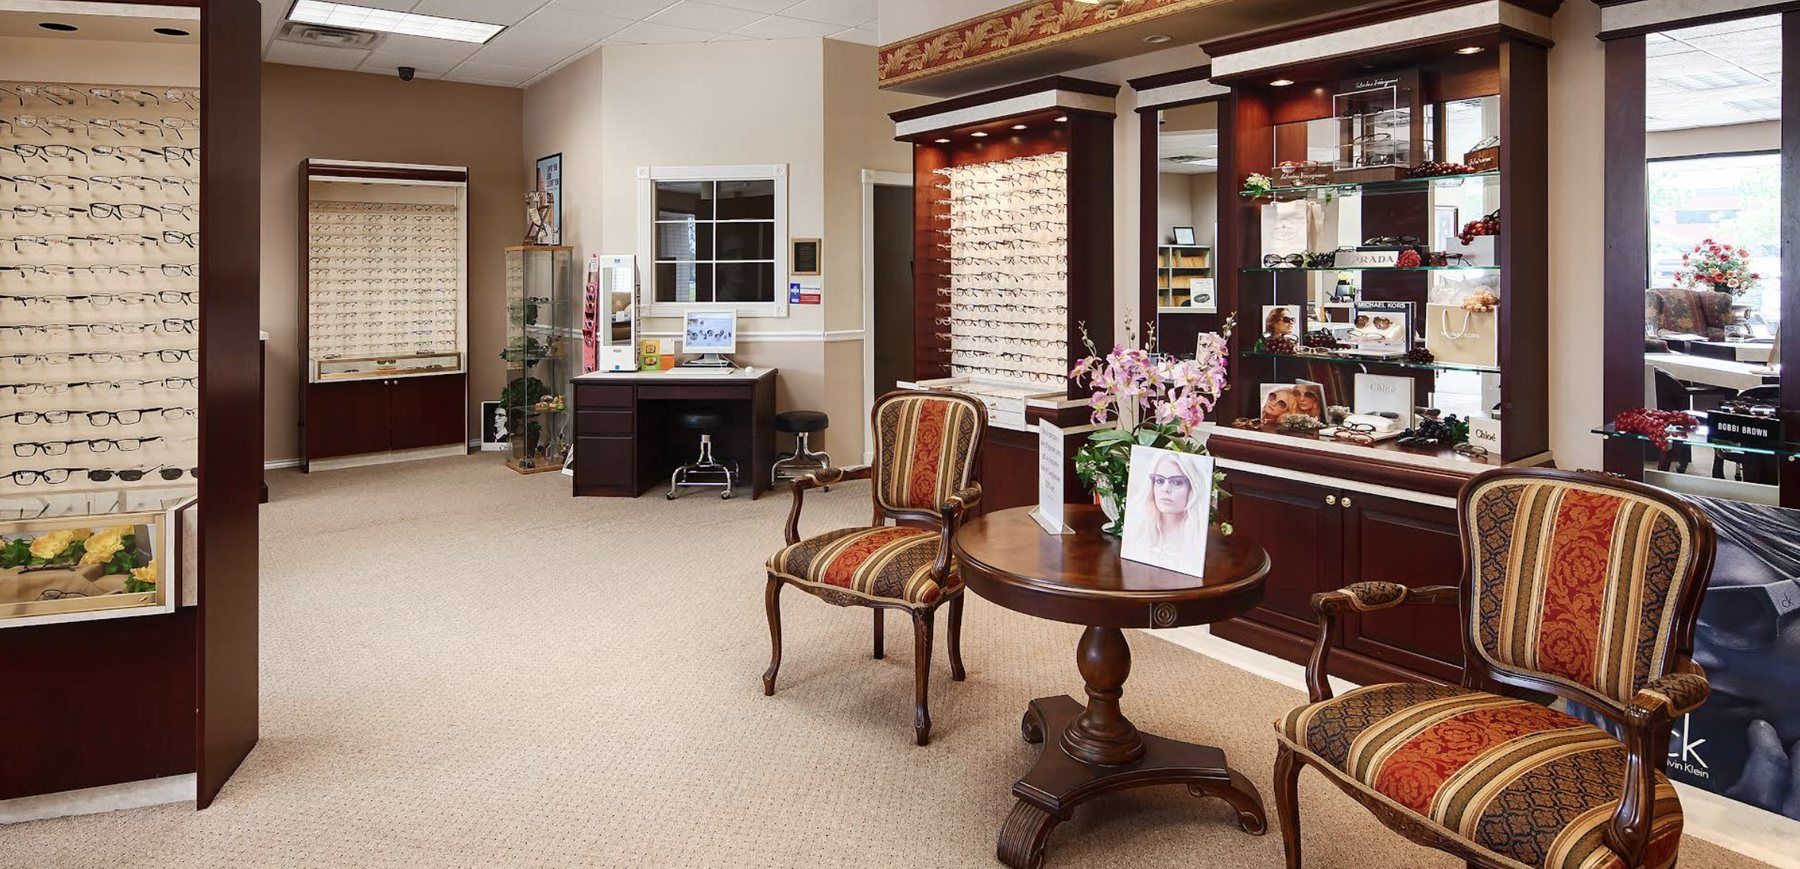
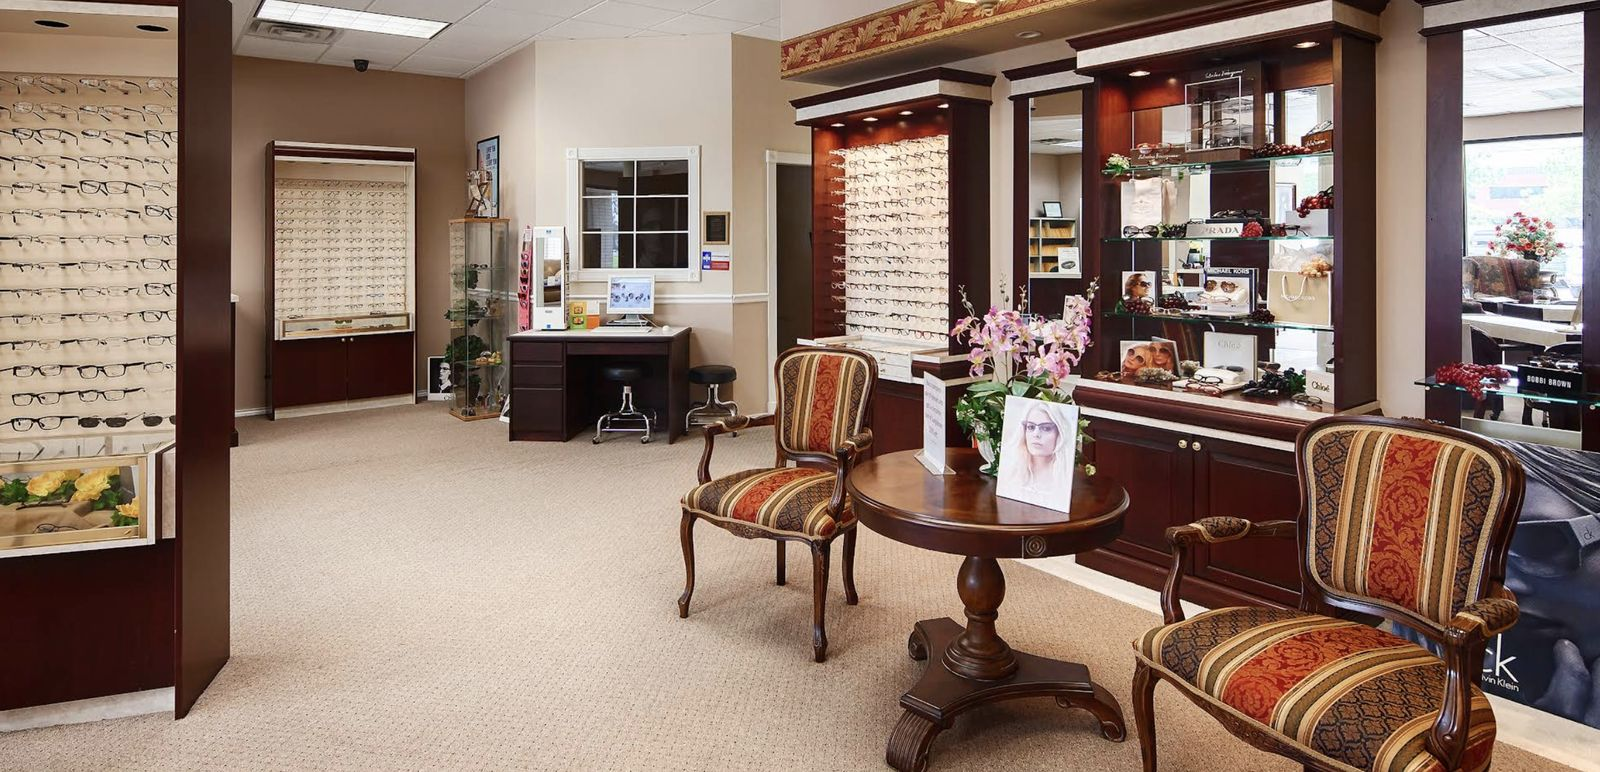
Replace the 300px optical-1.jpg with the full-resolution showroom photo
optical-1.jpg was 300x187 but displayed at 511px on most of the 21 pages that used
it -- a 1.7x upscale, 3.4x on a retina screen, and visibly soft. The showroom photo
supplied for the insurance hero is the same subject at proper resolution, so all 21
references now point at it.

Checked the crop before trusting it, because these containers are not one shape.
The photo is 2.07:1 and the containers run from 1.87 down to 0.86, so cover-cropping
discards a different amount on each:

  .dc-frame        1.33   keeps 64% of the width   15 pages
  .ha-hero__stage  1.87   keeps 90%                 1 page
  .et-frame__media 1.33   keeps 64%                 1 page
  .ha-media        0.95   keeps 46%                 2 pages
  .et-cat__scene   0.86   keeps 41%                 1 page

Rendered and inspected the three tightest. All still read as an optical showroom --
frame walls, dispensing desk, chairs -- so no per-container object-position was
needed. This was worth checking: the same 2.07:1-into-portrait crop is what made
optical-dispensary.jpg read as a bathroom vanity on the eye-health tile earlier.

Re-encoded the shared asset to 1600px q80, 354KB -> 255KB. 1600 covers the largest
display (the 1440px contact-lens-exams hero) at 1.11x, and every other use now
downscales instead of upscaling. Page weight does still rise from 13KB, which is the
unavoidable cost of a photo that is actually sharp.

Verified: 40 pages x 4 breakpoints = 160 renders. No horizontal scroll, no broken
[…]

diff --git a/glaucoma-management.html b/glaucoma-management.html
@@ -371,7 +371,7 @@
         <div class="et-reveal" style="--et-i:1">
           <figure class="dc-frame">
             <span class="dc-frame__edge" aria-hidden="true"></span>
-            <img class="dc-frame__img" src="assets/real/optical-1.jpg" alt="The Eye Trends practice in Clear Lake, a private one-doctor practice rather than a rotating chain counter" loading="lazy" decoding="async">
+            <img class="dc-frame__img" src="assets/real/optical-showroom-wide.jpg" alt="The Eye Trends practice in Clear Lake, a private one-doctor practice rather than a rotating chain counter" loading="lazy" decoding="async">
           </figure>
           <figure class="dc-frame">
             <span class="dc-frame__edge" aria-hidden="true"></span>

diff --git a/contact-lens-exams.html b/contact-lens-exams.html
@@ -183,7 +183,7 @@
     <div class="row">
       <div class="col col--full">
         <div class="ha-hero__stage">
-          <img class="et-media-img ha-hero__img" style="object-fit:cover" src="assets/real/optical-1.jpg" alt="The Eye Trends optical practice in Clear Lake, where contact lenses are fitted" loading="eager" decoding="async">
+          <img class="et-media-img ha-hero__img" style="object-fit:cover" src="assets/real/optical-showroom-wide.jpg" alt="The Eye Trends optical practice in Clear Lake, where contact lenses are fitted" loading="eager" decoding="async">
           <div class="ha-hero__scrim" aria-hidden="true"></div>
           <div class="ha-hero__inner">
             <div class="ha-hero__copy et-reveal">

diff --git a/flashes-floaters.html b/flashes-floaters.html
@@ -369,7 +369,7 @@
         <div class="et-reveal" style="--et-i:1">
           <figure class="dc-frame">
             <span class="dc-frame__edge" aria-hidden="true"></span>
-            <img class="dc-frame__img" src="assets/real/optical-1.jpg" alt="The Eye Trends practice in Clear Lake, a private eye doctor's office rather than a rushed retail counter or a crowded ER" loading="lazy" decoding="async">
+            <img class="dc-frame__img" src="assets/real/optical-showroom-wide.jpg" alt="The Eye Trends practice in Clear Lake, a private eye doctor's office rather than a rushed retail counter or a crowded ER" loading="lazy" decoding="async">
           </figure>
         </div>
       </div>

diff --git a/gas-permeable-contacts.html b/gas-permeable-contacts.html
@@ -327,7 +327,7 @@
         <div class="dc-cap__media et-reveal" style="--et-i:0">
           <figure class="dc-frame">
             <span class="dc-frame__edge" aria-hidden="true"></span>
-            <img class="dc-frame__img" src="assets/real/optical-1.jpg" alt="Inside the Eye Trends practice in Clear Lake, where a gas-permeable lens is measured and fitted in person" loading="lazy" decoding="async">
+            <img class="dc-frame__img" src="assets/real/optical-showroom-wide.jpg" alt="Inside the Eye Trends practice in Clear Lake, where a gas-permeable lens is measured and fitted in person" loading="lazy" decoding="async">
           </figure>
         </div>
       </div>

diff --git a/diabetic-eye-exams.html b/diabetic-eye-exams.html
@@ -367,7 +367,7 @@
         <div class="et-reveal" style="--et-i:1">
           <figure class="dc-frame">
             <span class="dc-frame__edge" aria-hidden="true"></span>
-            <img class="dc-frame__img" src="assets/real/optical-1.jpg" alt="The Eye Trends practice in Clear Lake, a private one-doctor optometry office rather than a rushed chain counter" loading="lazy" decoding="async">
+            <img class="dc-frame__img" src="assets/real/optical-showroom-wide.jpg" alt="The Eye Trends practice in Clear Lake, a private one-doctor optometry office rather than a rushed chain counter" loading="lazy" decoding="async">
           </figure>
         </div>
       </div>

diff --git a/foreign-body-removal.html b/foreign-body-removal.html
@@ -372,7 +372,7 @@
         <div class="et-reveal" style="--et-i:1">
           <figure class="dc-frame">
             <span class="dc-frame__edge" aria-hidden="true"></span>
-            <img class="dc-frame__img" src="assets/real/optical-1.jpg" alt="The Eye Trends practice in Clear Lake, a private one-doctor office rather than a rushed retail counter or an ER" loading="lazy" decoding="async">
+            <img class="dc-frame__img" src="assets/real/optical-showroom-wide.jpg" alt="The Eye Trends practice in Clear Lake, a private one-doctor office rather than a rushed retail counter or an ER" loading="lazy" decoding="async">
           </figure>
         </div>
       </div>

diff --git a/senior-eye-exams.html b/senior-eye-exams.html
@@ -372,7 +372,7 @@
         <div class="et-reveal" style="--et-i:1">
           <figure class="dc-frame">
             <span class="dc-frame__edge" aria-hidden="true"></span>
-            <img class="dc-frame__img" src="assets/real/optical-1.jpg" alt="The Eye Trends practice in Clear Lake, a private one-doctor optometry office rather than a rushed chain counter" loading="lazy" decoding="async">
+            <img class="dc-frame__img" src="assets/real/optical-showroom-wide.jpg" alt="The Eye Trends practice in Clear Lake, a private one-doctor optometry office rather than a rushed chain counter" loading="lazy" decoding="async">
           </figure>
         </div>
       </div>

diff --git a/specialty-contacts.html b/specialty-contacts.html
@@ -296,7 +296,7 @@
         <div class="dc-cap__media et-reveal" style="--et-i:0">
           <figure class="dc-frame">
             <span class="dc-frame__edge" aria-hidden="true"></span>
-            <img class="dc-frame__img" src="assets/real/optical-1.jpg" alt="Inside the Eye Trends practice in Clear Lake, where a specialty contact-lens fitting is done in person" loading="lazy" decoding="async">
+            <img class="dc-frame__img" src="assets/real/optical-showroom-wide.jpg" alt="Inside the Eye Trends practice in Clear Lake, where a specialty contact-lens fitting is done in person" loading="lazy" decoding="async">
           </figure>
         </div>
       </div>

diff --git a/eyewear.html b/eyewear.html
@@ -269,7 +269,7 @@
       <div class="col">
         <article class="et-frame et-reveal" style="--et-i:3">
           <div class="et-frame__media et-frame__media--d">
-            <img class="et-media-img" style="object-fit:cover" src="assets/real/optical-1.jpg" alt="The contact lens counter at Eye Trends in Clear Lake" loading="lazy" decoding="async">
+            <img class="et-media-img" style="object-fit:cover" src="assets/real/optical-showroom-wide.jpg" alt="The contact lens counter at Eye Trends in Clear Lake" loading="lazy" decoding="async">
           </div>
           <div class="et-frame__body">
             <p class="et-frame__brand">Contact lenses</p>

diff --git a/childrens-contact-lenses.html b/childrens-contact-lenses.html
@@ -402,7 +402,7 @@
         <div class="et-reveal" style="--et-i:1">
           <figure class="dc-frame">
             <span class="dc-frame__edge" aria-hidden="true"></span>
-            <img class="dc-frame__img" src="assets/real/optical-1.jpg" alt="The Eye Trends optical in Clear Lake, a private one-doctor practice rather than a rushed big-box counter" loading="lazy" decoding="async">
+            <img class="dc-frame__img" src="assets/real/optical-showroom-wide.jpg" alt="The Eye Trends optical in Clear Lake, a private one-doctor practice rather than a rushed big-box counter" loading="lazy" decoding="async">
           </figure>
         </div>
       </div>

diff --git a/adult-eye-exams.html b/adult-eye-exams.html
@@ -392,7 +392,7 @@
         <div class="et-reveal" style="--et-i:1">
           <figure class="dc-frame">
             <span class="dc-frame__edge" aria-hidden="true"></span>
-            <img class="dc-frame__img" src="assets/real/optical-1.jpg" alt="The Eye Trends optical in Clear Lake, a private one-doctor practice rather than a rushed chain counter" loading="lazy" decoding="async">
+            <img class="dc-frame__img" src="assets/real/optical-showroom-wide.jpg" alt="The Eye Trends optical in Clear Lake, a private one-doctor practice rather than a rushed chain counter" loading="lazy" decoding="async">
           </figure>
         </div>
       </div>

diff --git a/cataract-co-management.html b/cataract-co-management.html
@@ -375,7 +375,7 @@
         <div class="et-reveal" style="--et-i:1">
           <figure class="dc-frame">
             <span class="dc-frame__edge" aria-hidden="true"></span>
-            <img class="dc-frame__img" src="assets/real/optical-1.jpg" alt="The Eye Trends optical in Clear Lake, a private one-doctor practice rather than a rushed chain counter" loading="lazy" decoding="async">
+            <img class="dc-frame__img" src="assets/real/optical-showroom-wide.jpg" alt="The Eye Trends optical in Clear Lake, a private one-doctor practice rather than a rushed chain counter" loading="lazy" decoding="async">
           </figure>
         </div>
       </div>
